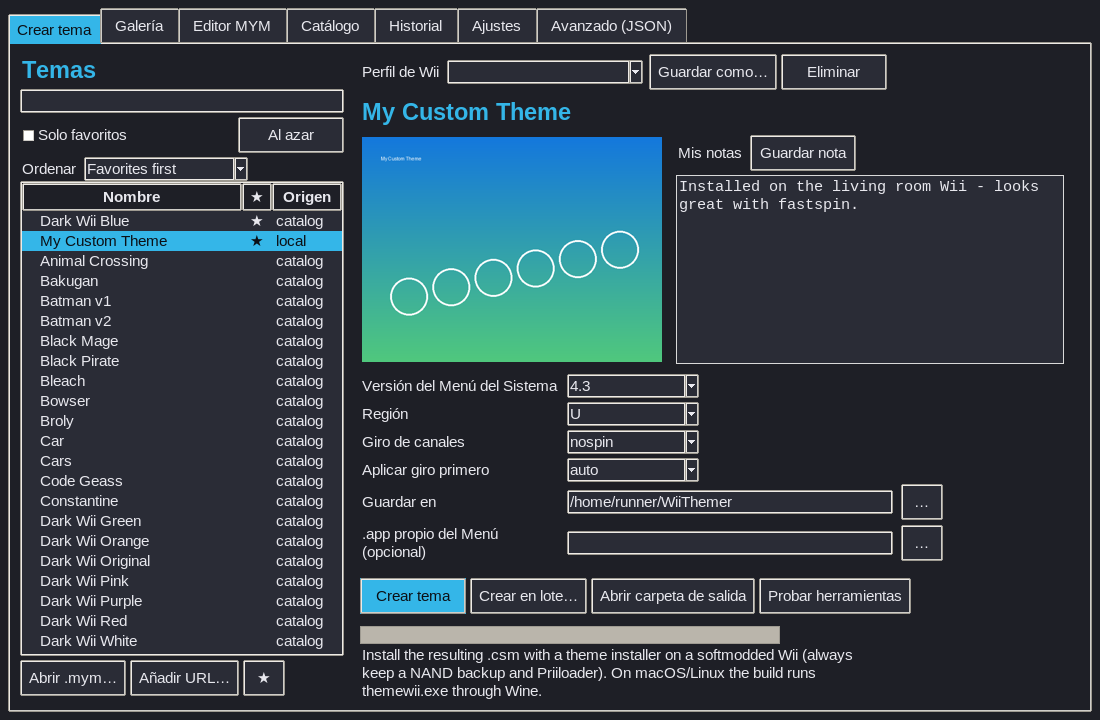
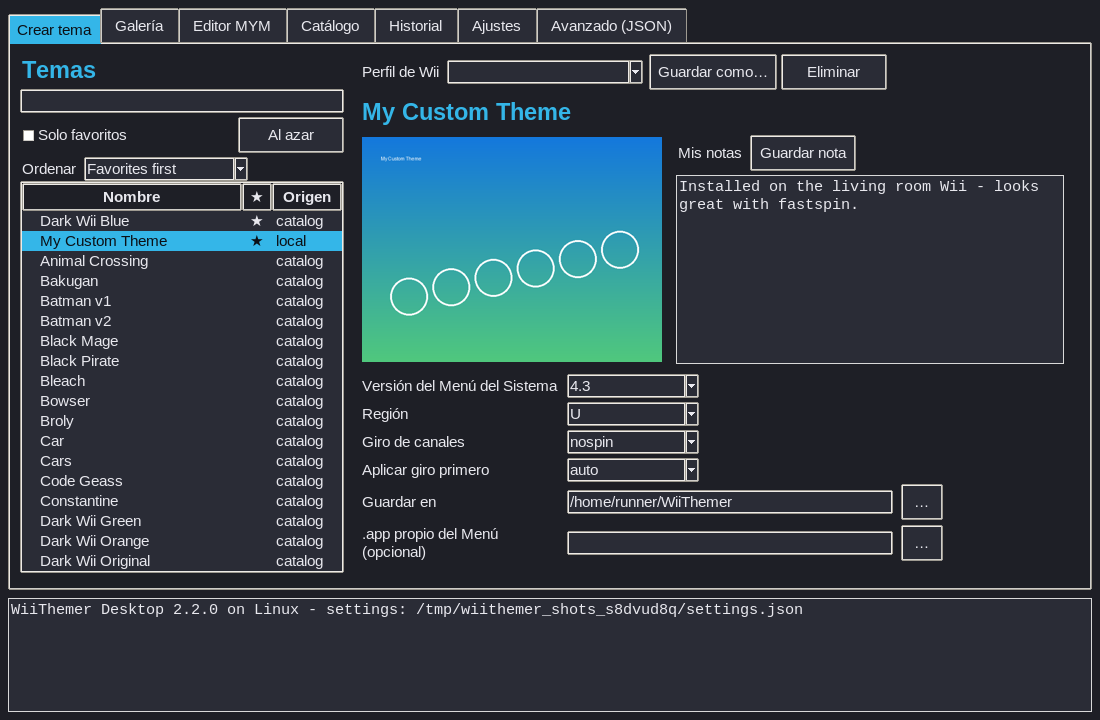
Build actions at the top of the Build tab; stricter layout self-test; refreshed screenshots

Changed region(s): [[0.0, 0.7944, 1.0, 1.0]]

diff --git a/app/wiithemer_desktop.py b/app/wiithemer_desktop.py
@@ -169,7 +169,7 @@ DEFAULT_SETTINGS = {
         "accent_fg": "#0b1016",
         "field_bg": "#2a2c36",
         "select_bg": "#34b6e8",
-        "preview_size": 300,
+        "preview_size": 260,
         "window_geometry": "1100x720",
         "window_title": APP_NAME,
         "language": "English",
@@ -851,11 +851,13 @@ class App(tk.Tk):
         ttk.Button(opts, text="…", width=3, command=lambda: self.pick_dir(self.v_outdir)).grid(row=4, column=2)
         self.v_base = tk.StringVar(value=b["base_app_path"])
         ttk.Label(opts, text="Own System Menu .app\n(optional)").grid(row=5, column=0, sticky="w", pady=3)
-        ttk.Entry(opts, textvariable=self.v_base, width=40).grid(row=5, column=1, sticky="w", padx=8)
+        self.base_entry = ttk.Entry(opts, textvariable=self.v_base, width=40)
+        self.base_entry.grid(row=5, column=1, sticky="w", padx=8)
         ttk.Button(opts, text="…", width=3, command=lambda: self.pick_file(self.v_base)).grid(row=5, column=2)
 
+        # The action buttons go at the top of the panel so they can never be pushed off-screen.
         actions = ttk.Frame(right)
-        actions.pack(anchor="w", pady=12)
+        actions.pack(anchor="w", pady=(0, 4), before=self.theme_title)
         self.build_button = ttk.Button(actions, text="Build theme", style="Accent.TButton",
                                        command=self.start_build)
         self.build_button.pack(side="left")
@@ -863,7 +865,7 @@ class App(tk.Tk):
         ttk.Button(actions, text="Open output folder", command=self.open_output).pack(side="left")
         ttk.Button(actions, text="Test tools", command=self.test_tools).pack(side="left", padx=4)
         self.progress = ttk.Progressbar(right, length=420, mode="determinate")
-        self.progress.pack(anchor="w")
+        self.progress.pack(anchor="w", pady=(0, 6), before=self.theme_title)
         ttk.Label(right, wraplength=520, text=(
             "Install the resulting .csm with a theme installer on a softmodded Wii "
             "(always keep a NAND backup and Priiloader). On macOS/Linux the build "
@@ -1877,10 +1879,13 @@ def selftest():
     # The Build button must be fully visible at the default window size.
     app.nb.select(app.tab_frames["build"])
     app.update()
+    # Measure against the area each widget actually lives in (clipped children extend past it).
+    tab_bottom = app.nb.winfo_rooty() + app.nb.winfo_height()
     window_bottom = app.winfo_rooty() + app.winfo_height()
-    for widget in (app.build_button, app.log_box):
+    for widget, limit in ((app.build_button, tab_bottom), (app.base_entry, tab_bottom),
+                          (app.log_box, window_bottom)):
         bottom = widget.winfo_rooty() + widget.winfo_height()
-        assert widget.winfo_ismapped() and bottom <= window_bottom, (str(widget), bottom, window_bottom)
+        assert widget.winfo_ismapped() and bottom <= limit, (str(widget), bottom, limit)
     assert len(app.catalog) > 0 and os.path.exists(os.path.join(resource_dir(), "tools", "themewii.exe"))
     for i in range(len(app.nb.tabs())):
         app.nb.select(i)

diff --git a/README.md b/README.md
@@ -372,7 +372,7 @@ Settings are stored in `settings.json` (see [Where files are stored](#where-file
 | `accent_fg` | `"#0b1016"` | Text color on top of the accent. |
 | `field_bg` | `"#2a2c36"` | Background of inputs, lists and text boxes. |
 | `select_bg` | `"#34b6e8"` | Background of selected rows. |
-| `preview_size` | `300` | Largest preview image size, in pixels. |
+| `preview_size` | `260` | Largest preview image size, in pixels. |
 | `ui_scale` | `1.0` | Scales the whole interface (0.5 to 4.0), for high-resolution screens or easier reading. |
 | `window_geometry` | `"1100x720"` | Starting window size (and position), Tk style: `WIDTHxHEIGHT+X+Y`. |
 | `window_title` | `"WiiThemer Desktop"` | Window title. |
@@ -911,10 +911,11 @@ This project is licensed under the **GNU General Public License v2.0**, the same
 ## Changelog
 
 ### v2.2.0
-- Fix: the **Build theme button was cut off** at the default window size (since v1.8). The preview and notes now sit side by side, and a self-test checks the button stays visible.
+- Fix: the **Build theme button was cut off** at the default window size (since v1.8). The preview and notes now sit side by side, and a self-test checks that the button, the last option row and the log all stay visible.
 - Fix: **read-only dropdowns** (Wii profile, Sort, Language) were hard to read in dark presets.
 - Fix: the **log panel** could be squeezed out of view at the default window size.
-- Smaller default preview (300 px) and log (6 lines).
+- The **Build theme / Batch build / Open output folder / Test tools** buttons are now at the top of the Build tab, so they're always visible.
+- Smaller default preview (260 px) and log (6 lines).
 - **Screenshots** in the README and on the website, made by a new `--screenshots` mode and a manual "Screenshots" workflow. They use an original demo theme, so no third-party theme art is stored in this repo.
 
 ### v2.1.0
